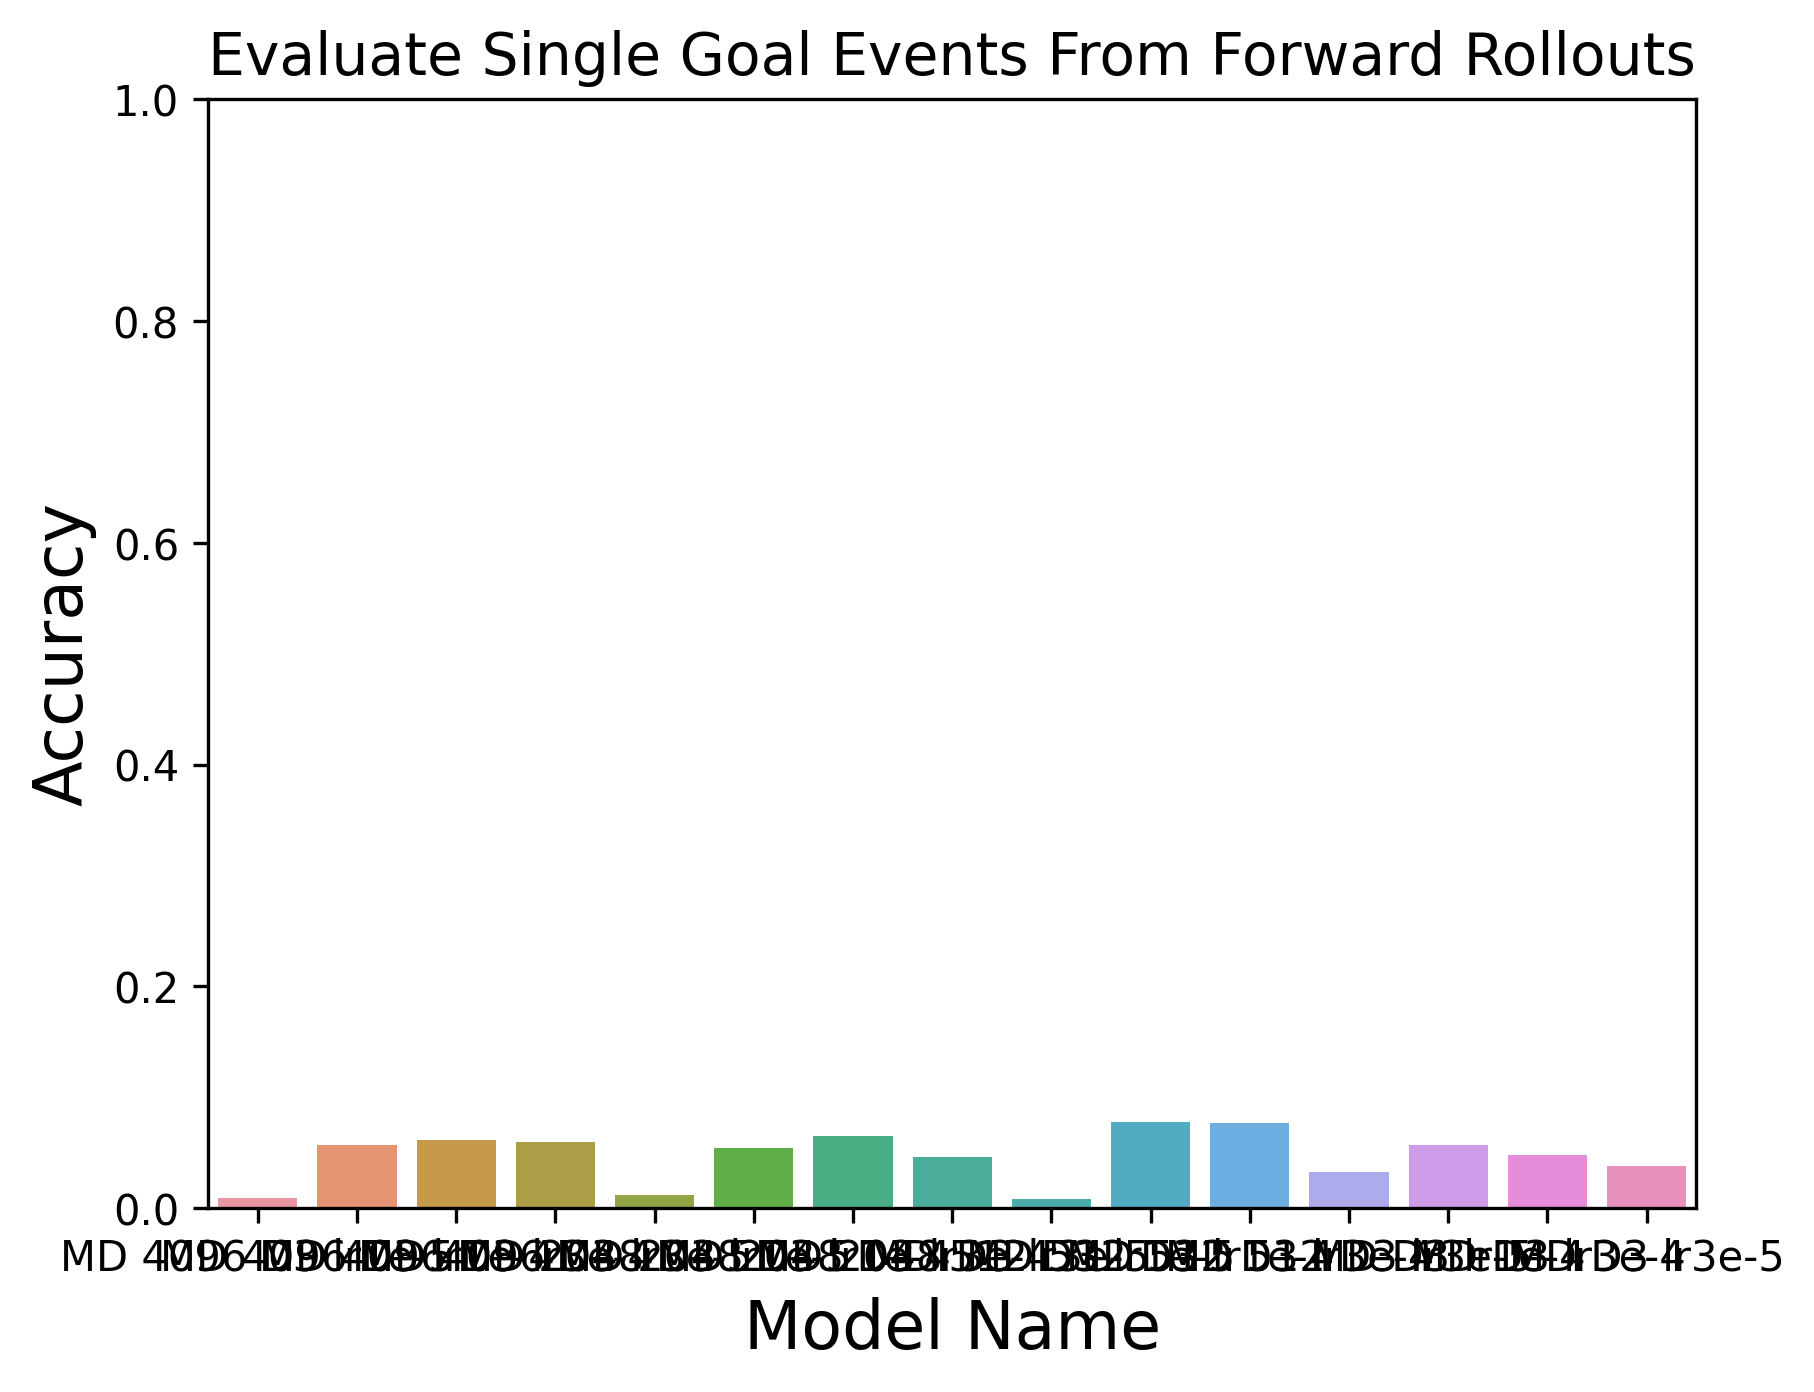
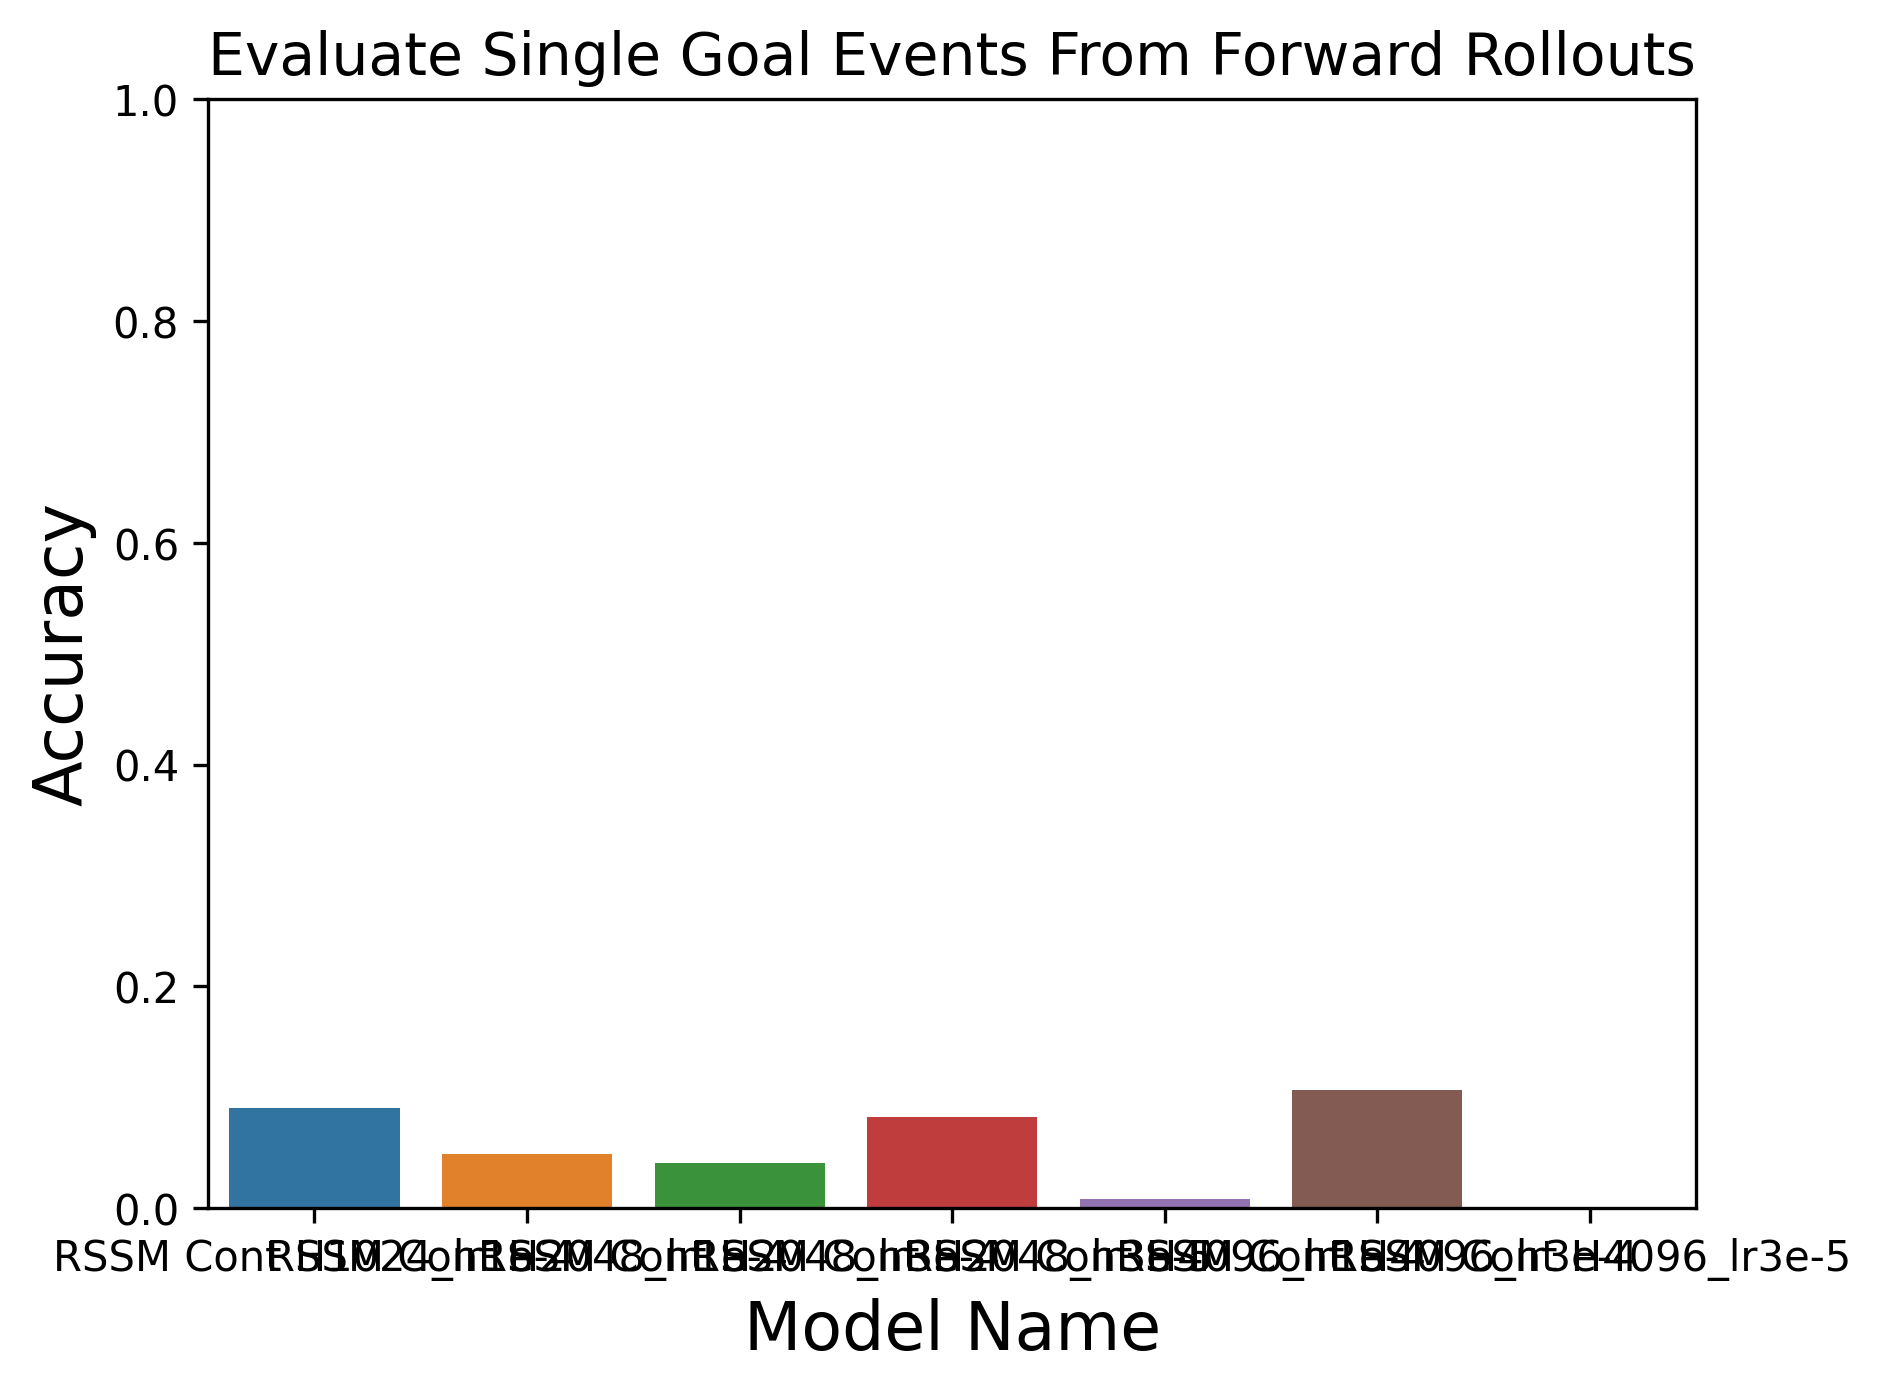
pre final sweepinng

Changed region(s): [[0.0309, 0.0, 0.9879, 0.9885]]

diff --git a/constants.py b/constants.py
@@ -26,6 +26,27 @@ MODEL_DICT_TRAIN = {
 """Values for validation"""
 # Only using 5-31-23 for the paper
 MODEL_DICT_VAL=  {
+    'mp_ds3_lr3e-5': {
+        'class': MultistepPredictor, 'config': 'multistep_predictor_input_size_35.json',
+        'model_dir': 'mp_ds3_lr3e-5', 'model_label': 'MP DS3 LR3e-5'},
+    'md_ds3_lr3e-4': {
+        'class': MultistepDelta, 'config': 'multistep_predictor_input_size_35.json',
+        'model_dir': 'mp_ds3_lr3e-4', 'model_label': 'MD DS3 LR3e-4'},
+    'mp_ds3_lr1e-4': {
+        'class': MultistepPredictor, 'config': 'multistep_predictor_input_size_35.json',
+        'model_dir': 'mp_ds3_lr1e-4', 'model_label': 'MP DS3 LR1e-4'},
+    'mp_d3_mlp_hidden_size_2048_lr3e-5': {
+        'class': MultistepPredictor, 'config': 'multistep_predictor_input_size_35_mlp_hidden_size_2048.json',
+        'model_dir': 'mp_d3_mlp_hidden_size_2048_lr3e-5', 'model_label': 'MP DS3 MLP HS2048 LR3e-5'},
+    'mp_d3_mlp_hidden_size_2048_lr1e-4': {
+        'class': MultistepPredictor, 'config': 'multistep_predictor_input_size_35_mlp_hidden_size_2048.json',
+        'model_dir': 'mp_d3_mlp_hidden_size_2048_lr1e-4', 'model_label': 'MP DS3 MLP HS2048 LR1e-4'},
+    'mp_d3_mlp_hidden_size_2048_lr3e-4': {
+        'class': MultistepPredictor, 'config': 'multistep_predictor_input_size_35_mlp_hidden_size_2048.json',
+        'model_dir': 'mp_d3_mlp_hidden_size_2048_lr3e-4', 'model_label': 'MP DS3 MLP HS2048 LR3e-4'},
+    'mp_d3_mlp_hidden_size_4096_lr1e-5': {
+        'class': MultistepPredictor, 'config': 'multistep_predictor_input_size_35_mlp_hidden_size_2048.json',
+        'model_dir': 'mp_d3_mlp_hidden_size_4096_lr1e-5', 'model_label': 'MP DS3 MLP HS4096 LR1e-5'},
     # 5-23
     # 'rssm_disc_ds2': {
     #     'class': DreamerV2, 'config': 'rssm_disc_ds2.json', 
@@ -119,72 +140,27 @@ MODEL_DICT_VAL=  {
     # 'rssm_cont_h512_lr1e-4': {
     #     'class': DreamerV2, 'config': 'rssm_cont_ds2_dec_hidden_size_512.json',
     #     'model_dir': 'rssm_cont_ds3_dec_hidden_size_512_lr1e-4', 'model_label': 'RSSM Cont H512_lr1e-4'},
-    'rssm_cont_h1024_lr1e-4': {
-        'class': DreamerV2, 'config': 'rssm_cont_ds2.json',
-        'model_dir': 'rssm_cont_ds3_dec_hidden_size_1024_lr1e-4', 'model_label': 'RSSM Cont H1024_lr1e-4'},
-    'rssm_cont_h2048_lr1e-4': {
-        'class': DreamerV2, 'config': 'rssm_cont_ds2_dec_hidden_size_2048.json',
-        'model_dir': 'rssm_cont_ds3_dec_hidden_size_2048_lr1e-4', 'model_label': 'RSSM Cont H2048_lr1e-4'},
-    'rssm_cont_h2048_lr3e-4': {
-        'class': DreamerV2, 'config': 'rssm_cont_ds2_dec_hidden_size_2048.json',
-        'model_dir': 'rssm_cont_ds3_dec_hidden_size_2048_lr3e-4', 'model_label': 'RSSM Cont H2048_lr3e-4'},
-    'rssm_cont_h2048_lr3e-5': {
-        'class': DreamerV2, 'config': 'rssm_cont_ds2_dec_hidden_size_2048.json',
-        'model_dir': 'rssm_cont_ds3_dec_hidden_size_2048_lr3e-5', 'model_label': 'RSSM Cont H2048_lr3e-5'},    
-    'rssm_cont_h4096_lr1e-4': {
-        'class': DreamerV2, 'config': 'rssm_cont_ds2_dec_hidden_size_4096.json',
-        'model_dir': 'rssm_cont_ds3_dec_hidden_size_4096_lr1e-4', 'model_label': 'RSSM Cont H4096_lr1e-4'},
-    'rssm_cont_h4096_lr3e-4': {
-        'class': DreamerV2, 'config': 'rssm_cont_ds2_dec_hidden_size_4096.json',
-        'model_dir': 'rssm_cont_ds3_dec_hidden_size_4096_lr3e-4', 'model_label': 'RSSM Cont H4096_lr3e-4'},
-    'rssm_cont_h4096_lr3e-5': {
-        'class': DreamerV2, 'config': 'rssm_cont_ds2_dec_hidden_size_4096.json',
-        'model_dir': 'rssm_cont_ds3_dec_hidden_size_4096_lr3e-5', 'model_label': 'RSSM Cont H4096_lr3e-5'},
-    # 'md_4096_d3_lr1e-5': {
-    #     'class': MultistepPredictor, 'config': 'multistep_delta_ds2_mlp_hidden_size_4096.json', 
-    #     'model_dir': 'multistep_delta_ds3_mlp_hidden_size_4096_lr1e-5', 'model_label': 'MD 4096 D3 lr1e-5'},
-    # 'md_4096_d3_lr1e-4': {
-    #     'class': MultistepPredictor, 'config': 'multistep_delta_ds2_mlp_hidden_size_4096.json',
-    #     'model_dir': 'multistep_delta_ds3_mlp_hidden_size_4096_lr1e-4', 'model_label': 'MD 4096 D3 lr1e-4'},
-    # 'md_4096_d3_lr3e-4': {
-    #     'class': MultistepPredictor, 'config': 'multistep_delta_ds2_mlp_hidden_size_4096.json',
-    #     'model_dir': 'multistep_delta_ds3_mlp_hidden_size_4096_lr3e-4', 'model_label': 'MD 4096 D3 lr3e-4'},
-    # 'md_4096_d3_lr3e-5': {
-    #     'class': MultistepPredictor, 'config': 'multistep_delta_ds2_mlp_hidden_size_4096.json',
-    #     'model_dir': 'multistep_delta_ds3_mlp_hidden_size_4096_lr3e-5', 'model_label': 'MD 4096 D3 lr3e-5'},
-    # 'md_2048_d3_lr1e-5': {
-    #     'class': MultistepPredictor, 'config': 'multistep_delta_ds2_mlp_hidden_size_2048.json',
-    #     'model_dir': 'multistep_delta_ds3_mlp_hidden_size_2048_lr1e-5', 'model_label': 'MD 2048 D3 lr1e-5'},
-    # 'md_2048_d3_lr1e-4': {
-    #     'class': MultistepPredictor, 'config': 'multistep_delta_ds2_mlp_hidden_size_2048.json',
-    #     'model_dir': 'multistep_delta_ds3_mlp_hidden_size_2048_lr1e-4', 'model_label': 'MD 2048 D3 lr1e-4'},
-    # 'md_2048_d3_lr3e-4': {
-    #     'class': MultistepPredictor, 'config': 'multistep_delta_ds2_mlp_hidden_size_2048.json',
-    #     'model_dir': 'multistep_delta_ds3_mlp_hidden_size_2048_lr3e-4', 'model_label': 'MD 2048 D3 lr3e-4'},
-    # 'md_2048_d3_lr3e-5': {
-    #     'class': MultistepPredictor, 'config': 'multistep_delta_ds2_mlp_hidden_size_2048.json',
-    #     'model_dir': 'multistep_delta_ds3_mlp_hidden_size_2048_lr3e-5', 'model_label': 'MD 2048 D3 lr3e-5'},
-    # 'md_512_d3_lr1e-5': {
-    #     'class': MultistepPredictor, 'config': 'multistep_delta_ds2_mlp_hidden_size_512.json',
-    #     'model_dir': 'multistep_delta_ds3_mlp_hidden_size_512_lr1e-5', 'model_label': 'MD 512 D3 lr1e-5'},
-    # 'md_512_d3_lr1e-4': {
-    #     'class': MultistepPredictor, 'config': 'multistep_delta_ds2_mlp_hidden_size_512.json',
-    #     'model_dir': 'multistep_delta_ds3_mlp_hidden_size_512_lr1e-4', 'model_label': 'MD 512 D3 lr1e-4'},
-    # 'md_512_d3_lr3e-4': {
-    #     'class': MultistepPredictor, 'config': 'multistep_delta_ds2_mlp_hidden_size_512.json',
-    #     'model_dir': 'multistep_delta_ds3_mlp_hidden_size_512_lr3e-4', 'model_label': 'MD 512 D3 lr3e-4'},
-    # 'md_512_d3_lr3e-5': {
-    #     'class': MultistepPredictor, 'config': 'multistep_delta_ds2_mlp_hidden_size_512.json',
-    #     'model_dir': 'multistep_delta_ds3_mlp_hidden_size_512_lr3e-5', 'model_label': 'MD 512 D3 lr3e-5'},    
-    # 'md_d3_lr1e-4': {
-    #     'class': MultistepPredictor, 'config': 'multistep_delta_ds2.json',
-    #     'model_dir': 'multistep_delta_ds3_mlp_lr1e-4', 'model_label': 'MD D3 lr1e-4'},
-    # 'md_d3_lr3e-4': {
-    #     'class': MultistepPredictor, 'config': 'multistep_delta_ds2.json',
-    #     'model_dir': 'multistep_delta_ds3_mlp_lr3e-4', 'model_label': 'MD D3 lr3e-4'},
-    # 'md_d3_lr3e-5': {
-    #     'class': MultistepPredictor, 'config': 'multistep_delta_ds2.json',
-    #     'model_dir': 'multistep_delta_ds3_mlp_lr3e-5', 'model_label': 'MD D3 lr3e-5'},    
+    # 'rssm_cont_h1024_lr1e-4': {
+    #     'class': DreamerV2, 'config': 'rssm_cont_ds2.json',
+    #     'model_dir': 'rssm_cont_ds3_dec_hidden_size_1024_lr1e-4', 'model_label': 'RSSM Cont H1024_lr1e-4'},
+    # 'rssm_cont_h2048_lr1e-4': {
+    #     'class': DreamerV2, 'config': 'rssm_cont_ds2_dec_hidden_size_2048.json',
+    #     'model_dir': 'rssm_cont_ds3_dec_hidden_size_2048_lr1e-4', 'model_label': 'RSSM Cont H2048_lr1e-4'},
+    # 'rssm_cont_h2048_lr3e-4': {
+    #     'class': DreamerV2, 'config': 'rssm_cont_ds2_dec_hidden_size_2048.json',
+    #     'model_dir': 'rssm_cont_ds3_dec_hidden_size_2048_lr3e-4', 'model_label': 'RSSM Cont H2048_lr3e-4'},
+    # 'rssm_cont_h2048_lr3e-5': {
+    #     'class': DreamerV2, 'config': 'rssm_cont_ds2_dec_hidden_size_2048.json',
+    #     'model_dir': 'rssm_cont_ds3_dec_hidden_size_2048_lr3e-5', 'model_label': 'RSSM Cont H2048_lr3e-5'},    
+    # 'rssm_cont_h4096_lr1e-4': {
+    #     'class': DreamerV2, 'config': 'rssm_cont_ds2_dec_hidden_size_4096.json',
+    #     'model_dir': 'rssm_cont_ds3_dec_hidden_size_4096_lr1e-4', 'model_label': 'RSSM Cont H4096_lr1e-4'},
+    # 'rssm_cont_h4096_lr3e-4': {
+    #     'class': DreamerV2, 'config': 'rssm_cont_ds2_dec_hidden_size_4096.json',
+    #     'model_dir': 'rssm_cont_ds3_dec_hidden_size_4096_lr3e-4', 'model_label': 'RSSM Cont H4096_lr3e-4'},
+    # 'rssm_cont_h4096_lr3e-5': {
+    #     'class': DreamerV2, 'config': 'rssm_cont_ds2_dec_hidden_size_4096.json',
+    #     'model_dir': 'rssm_cont_ds3_dec_hidden_size_4096_lr3e-5', 'model_label': 'RSSM Cont H4096_lr3e-5'},
 }
 data_dir_ccn = '/mnt/fs2/ziyxiang/swm_data_and_results/data/'
 checkpoint_dir_ccn = '/mnt/fs2/ziyxiang/swm_data_and_results/checkpoint/'
